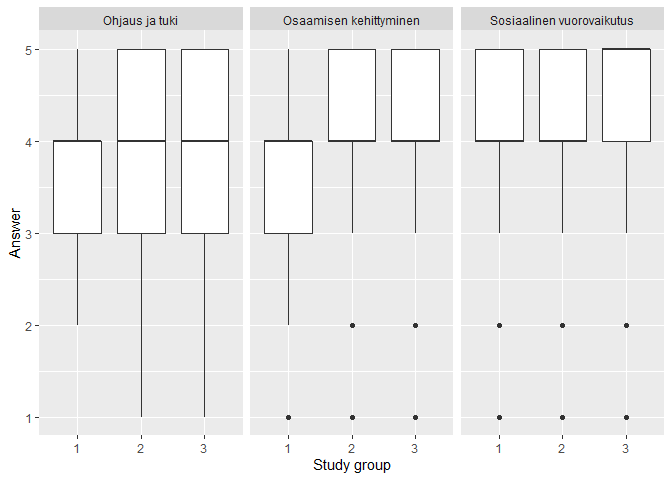
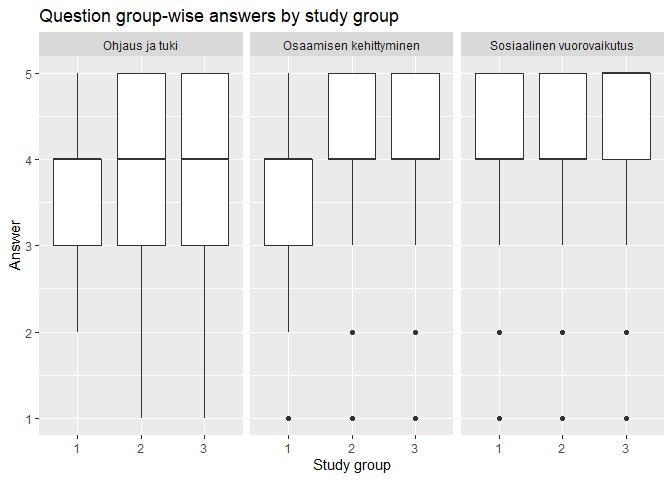
Add EOS to likert barplots

diff --git a/paper-2/webpropol-answers.md b/paper-2/webpropol-answers.md
@@ -30,12 +30,48 @@ The first year students seemed to be the most critical in their answer.
 ggplot(likert %>% filter(!is.na(answer)), aes(x=factor(study_group), y=answer)) + 
   geom_boxplot() + 
   facet_grid(.~question_group) +
-  labs(x="Study group", y="Answer")
+  labs(x="Study group", y="Answer", title="Question group-wise answers by study group")
 ```
 
 ![](webpropol-answers_files/figure-gfm/unnamed-chunk-3-1.png)<!-- -->
 
-## Missing data
+``` r
+ggplot(likert %>% filter(!is.na(answer)), aes(x=factor(study_group), y=answer)) + 
+  geom_boxplot() + 
+  facet_wrap(~as.numeric(question_number)) +
+  labs(x="Study group", y="Answer", title="Question-wise answers by study group")
+```
+
+![](webpropol-answers_files/figure-gfm/unnamed-chunk-4-1.png)<!-- -->
+
+``` r
+ggplot(likert %>% filter(study_group==1) %>% mutate(answer = ifelse(is.na(answer), "EOS", answer)), aes(x=answer)) + 
+  geom_bar() + 
+  facet_wrap(~as.numeric(question_number), nrow=5) +
+  labs(x="Answer", y="Count", title="1st year students")
+```
+
+![](webpropol-answers_files/figure-gfm/unnamed-chunk-5-1.png)<!-- -->
+
+``` r
+ggplot(likert %>% filter(study_group==2) %>% mutate(answer = ifelse(is.na(answer), "EOS", answer)), aes(x=answer)) + 
+  geom_bar() + 
+  facet_wrap(~as.numeric(question_number), nrow=5) +
+  labs(x="Answer", y="Count", title="2nd year students")
+```
+
+![](webpropol-answers_files/figure-gfm/unnamed-chunk-6-1.png)<!-- -->
+
+``` r
+ggplot(likert %>% filter(study_group==3) %>% mutate(answer = ifelse(is.na(answer), "EOS", answer)), aes(x=answer)) + 
+  geom_bar() + 
+  facet_wrap(~as.numeric(question_number), nrow=5) +
+  labs(x="Answer", y="Count", title="3rd year students")
+```
+
+![](webpropol-answers_files/figure-gfm/unnamed-chunk-7-1.png)<!-- -->
+
+## Can not say
 
 ``` r
 tbl = likert %>% group_by(question_group, study_group) %>% summarize(total_answers = n(), missing_answers = sum(is.na(answer)), missing_pct = round(missing_answers / total_answers * 100, 1))
@@ -70,4 +106,4 @@ ggplot(nonlikert %>% filter(!is.na(preferred_method)), aes(x=preferred_method, f
   theme(legend.position = "top")
 ```
 
-![](webpropol-answers_files/figure-gfm/unnamed-chunk-5-1.png)<!-- -->
+![](webpropol-answers_files/figure-gfm/unnamed-chunk-9-1.png)<!-- -->
